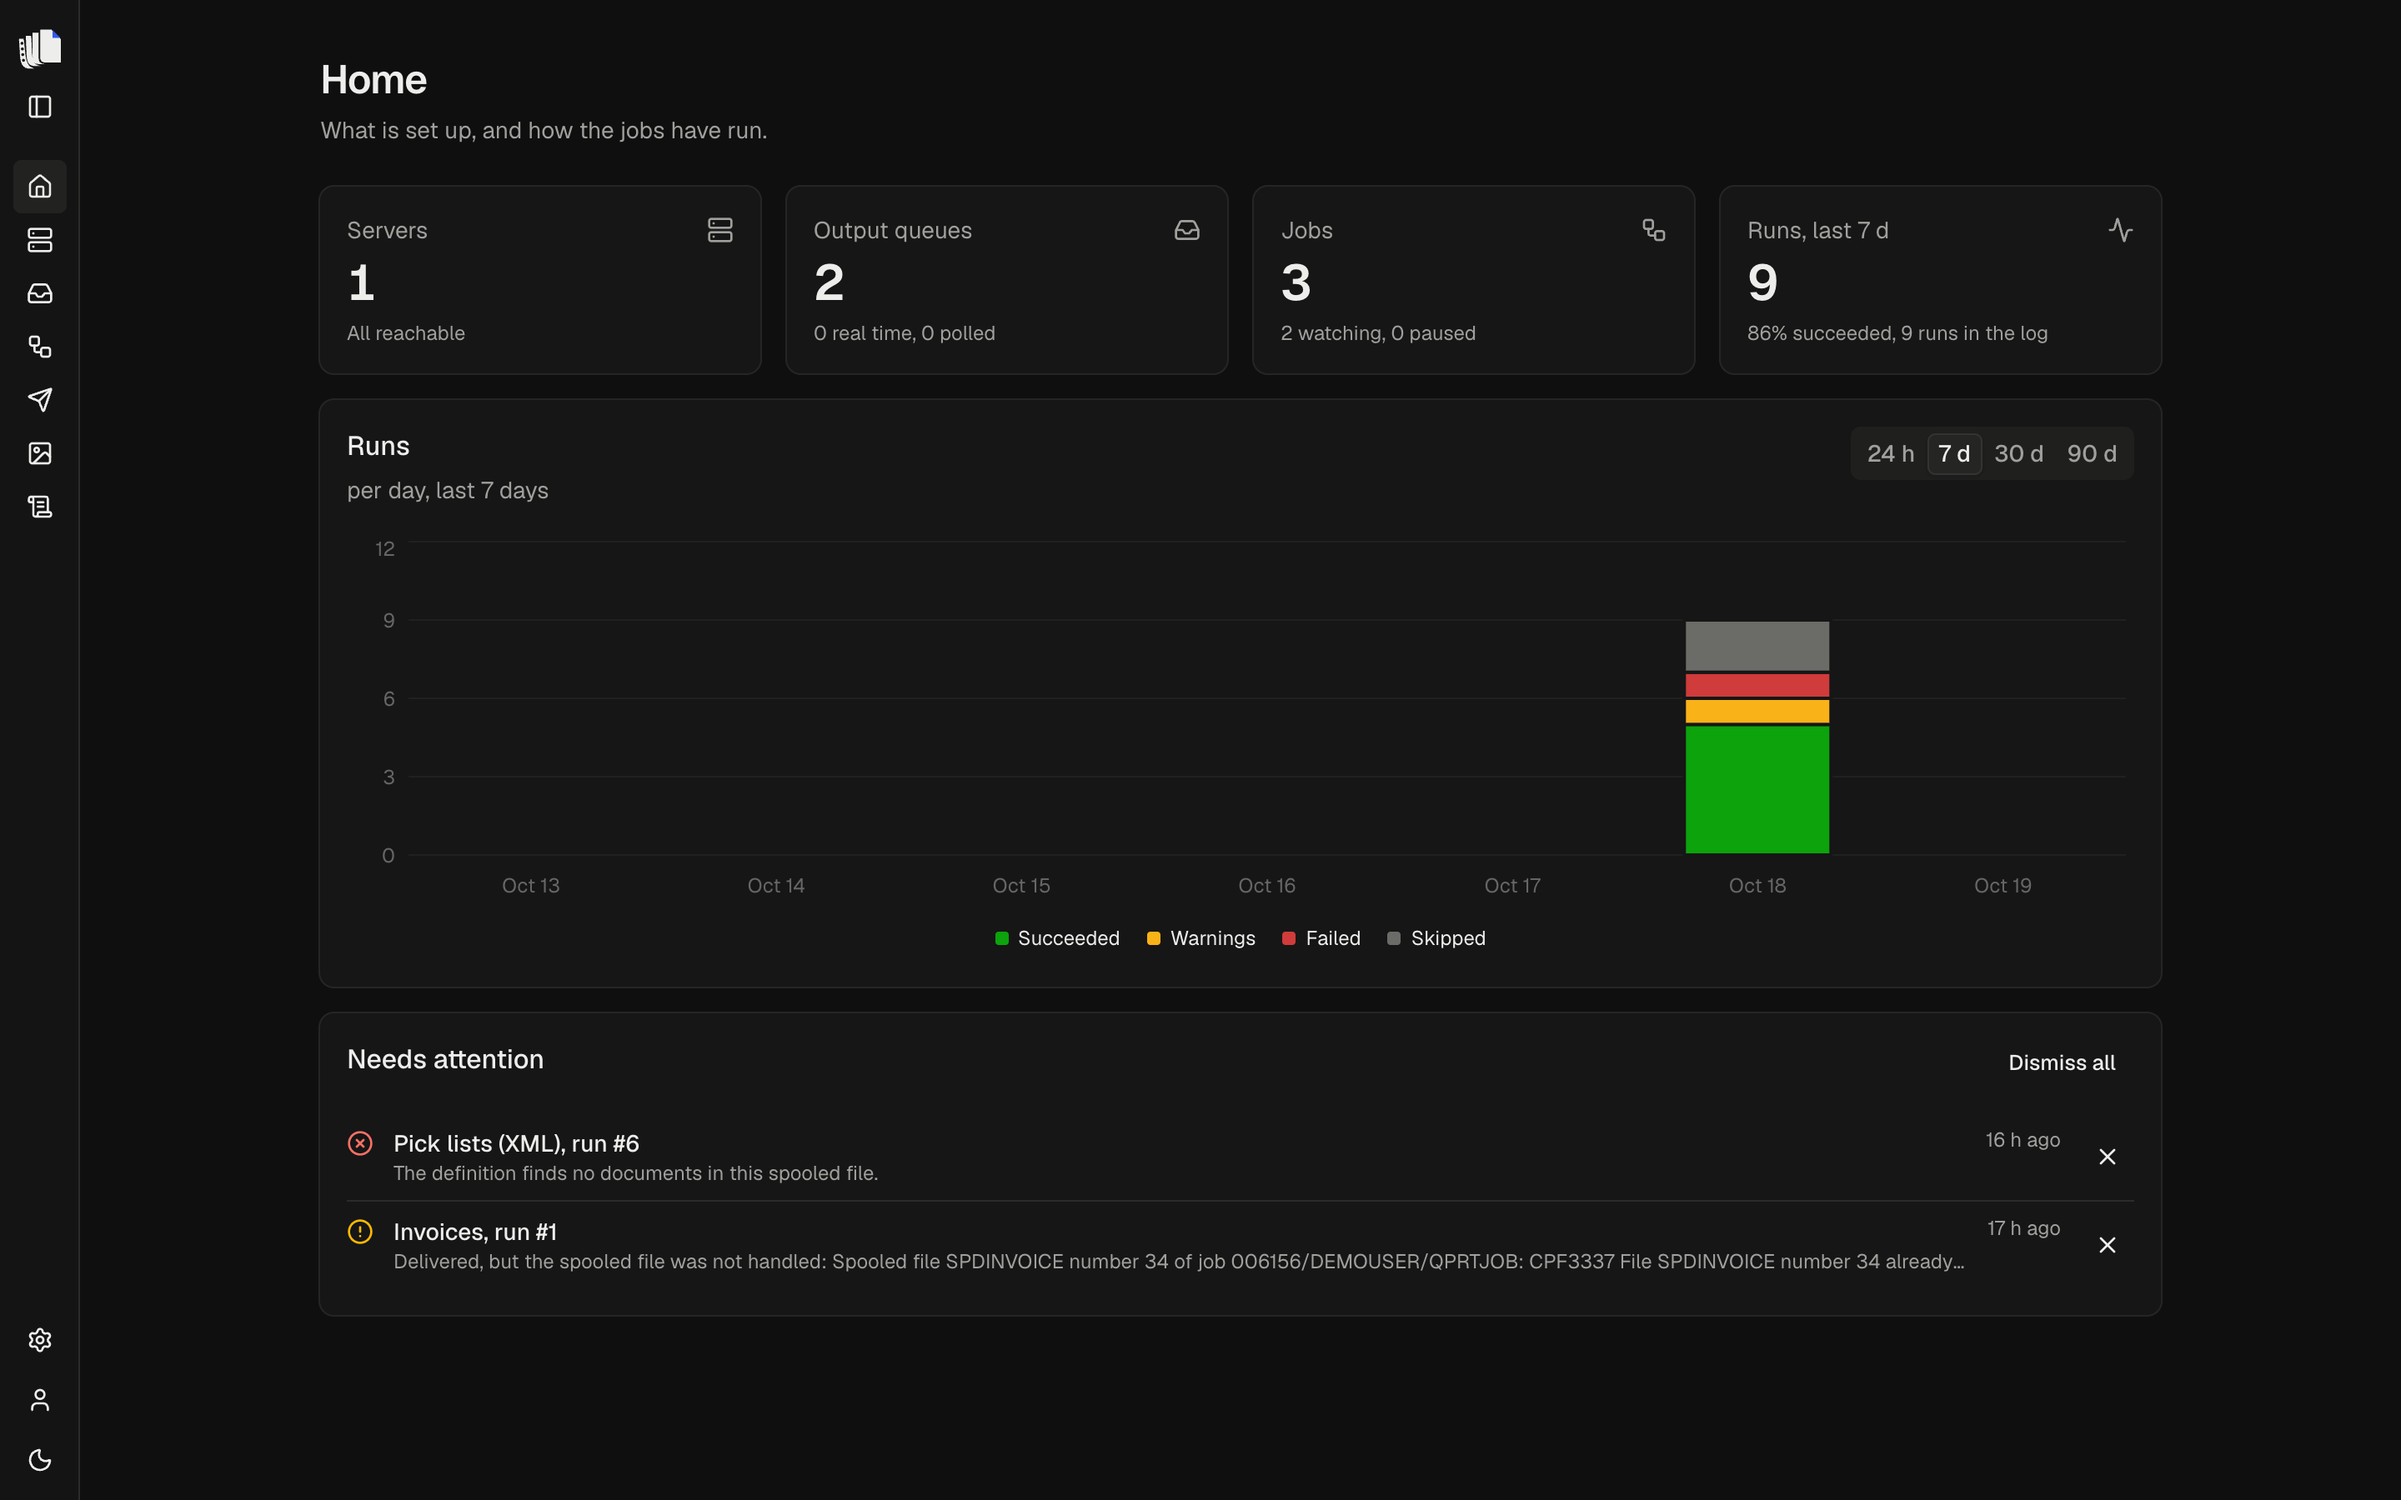
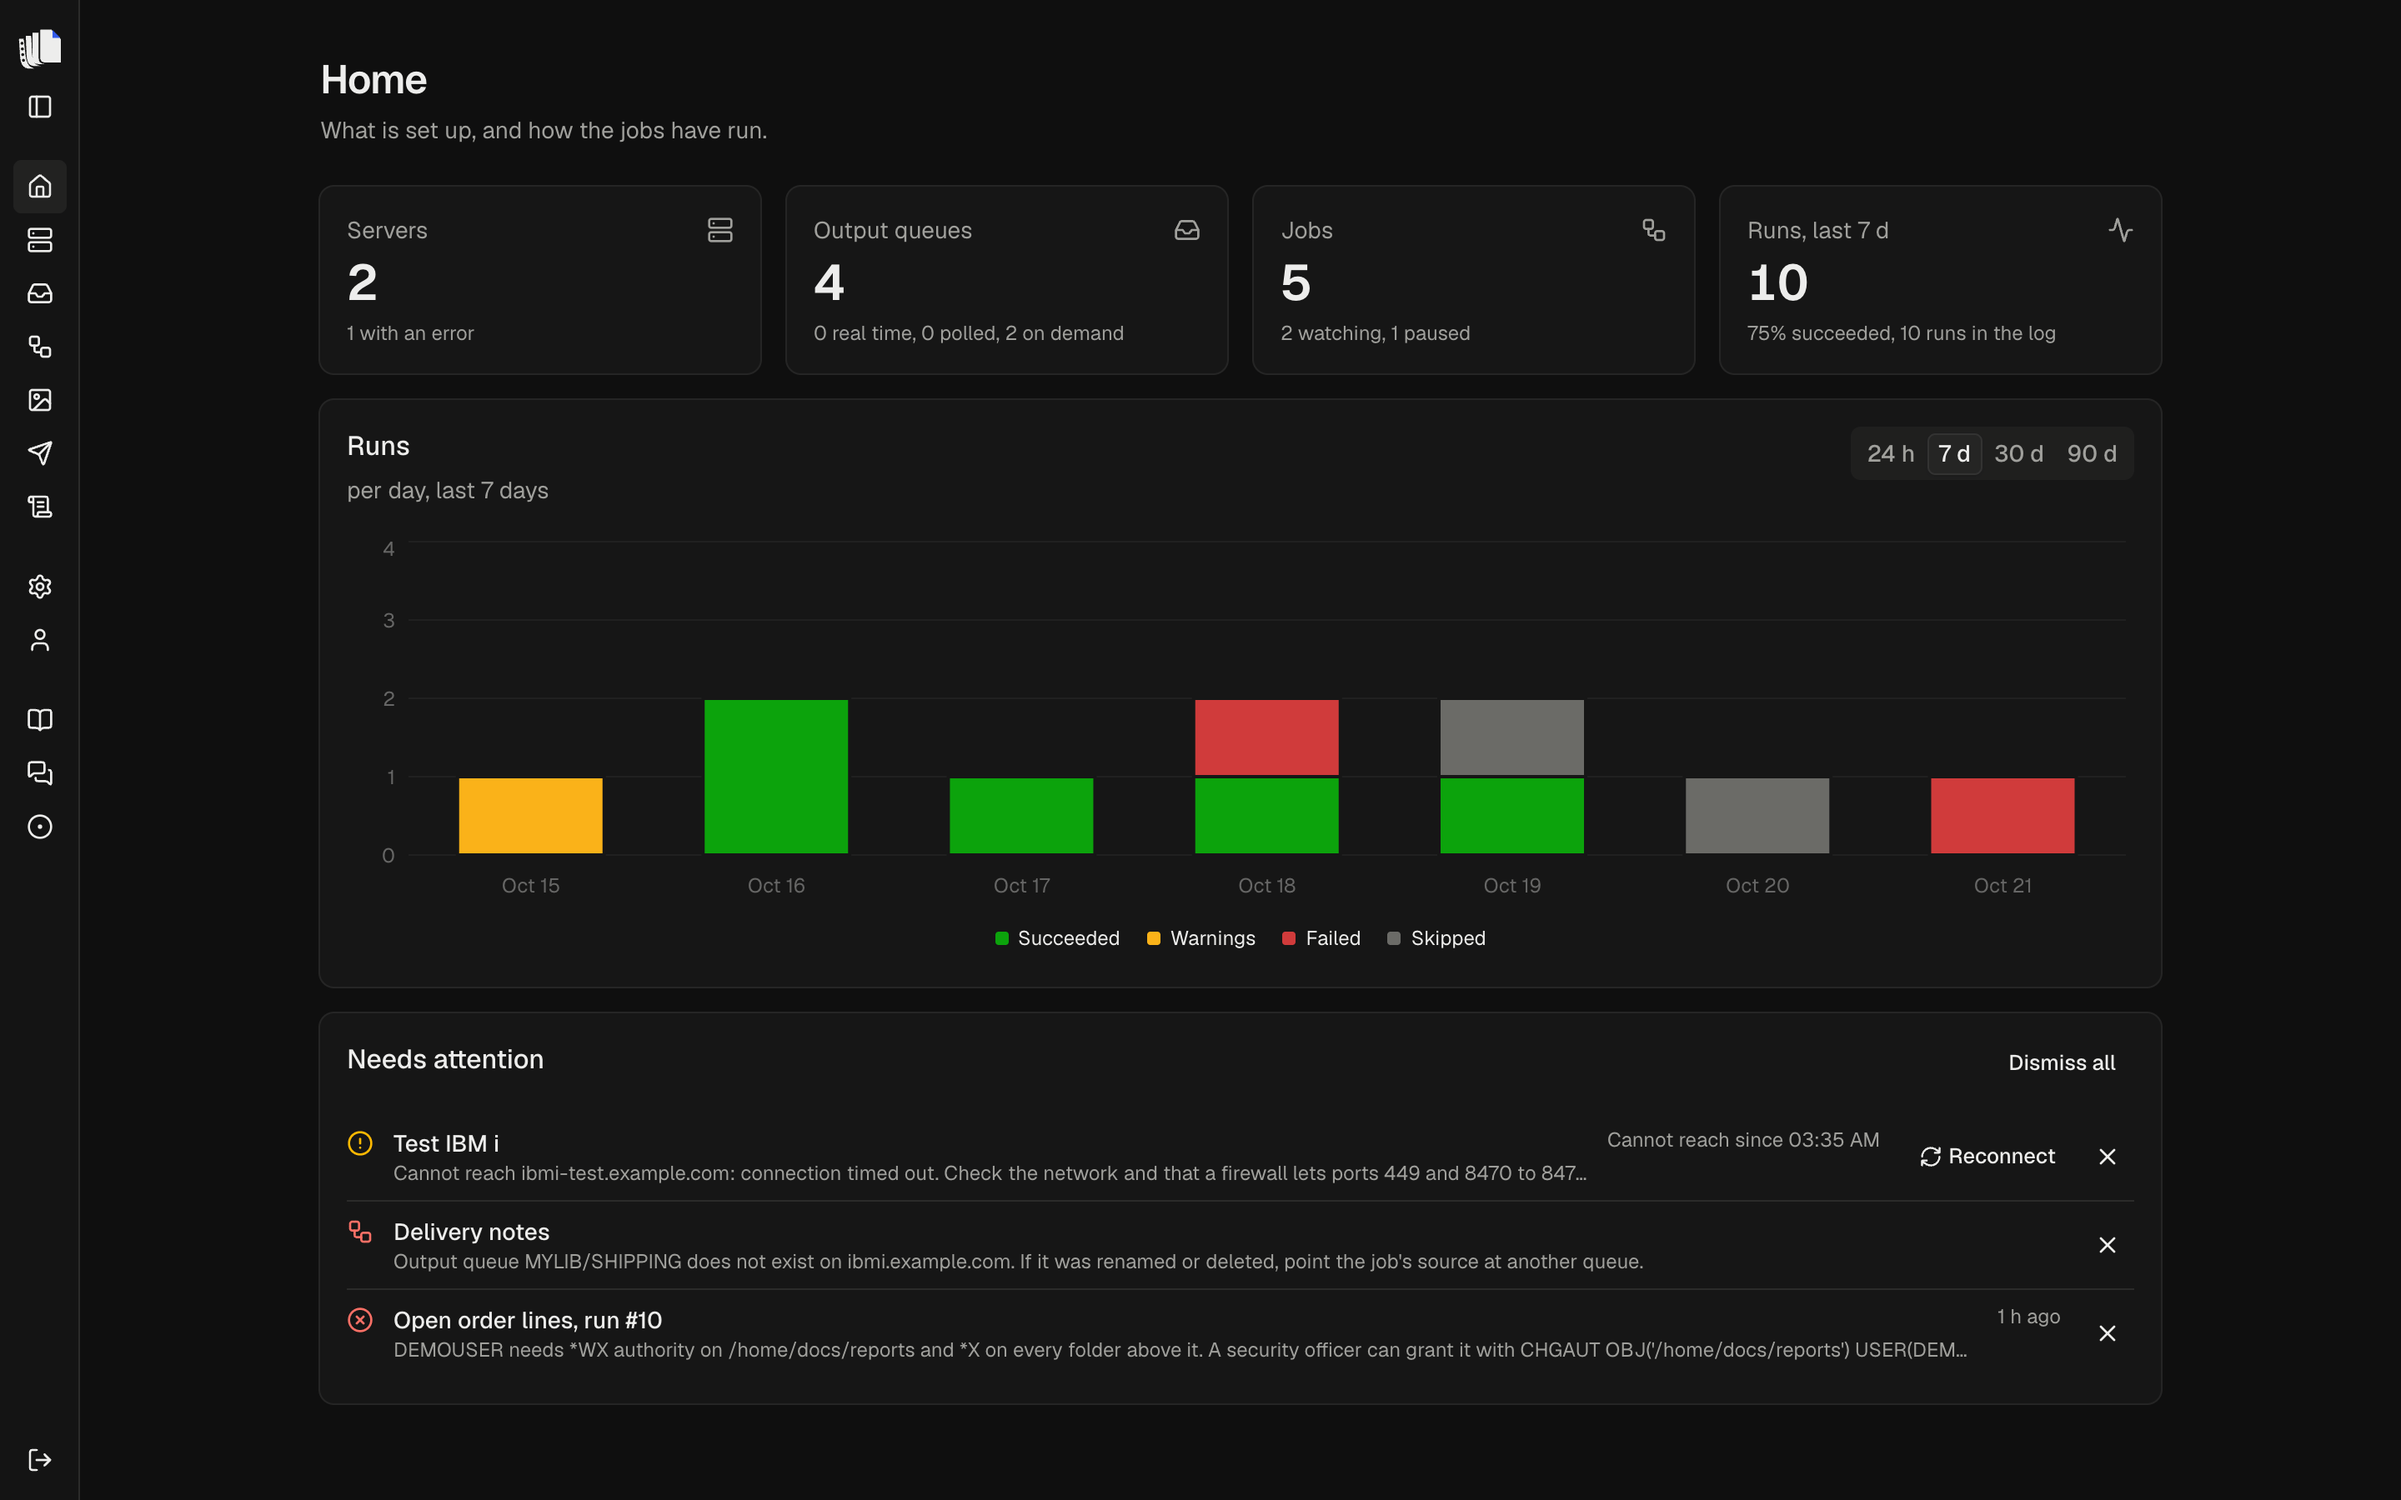
docs: screenshots of jobs, servers, destinations, templates, settings, assets and profile
Adds ten screenshots in light and dark, each on the page that describes its screen, and retakes Home, whose demo now has items under Needs attention. The demo data in them is invented.

diff --git a/docs/templates.md b/docs/templates.md
@@ -141,6 +141,13 @@ makes DOCX only, and so does a template that turns into one. Pick Make it
 a Word template in the template's menu on the render step, or ask the
 agent for one.
 
+<p align="center">
+  <picture>
+    <source media="(prefers-color-scheme: dark)" srcset="assets/word-template-dark.png">
+    <img src="assets/word-template-light.png" alt="The render step of a job with a Word template: the uploaded .docx and the tips for tags in Word on the left, and the PDF preview of the open order lines on the right" width="900">
+  </picture>
+</p>
+
 Until you upload one, the preview uses a Word starter template made from
 the definition, with the same layout as the HTML one and "Page 1 of 2" in
 the footer. To make your own:
@@ -224,6 +231,13 @@ formulas and page setup, and type the tags into its cells. It makes XLSX
 files, PDFs or both; a new Excel template makes XLSX only, and so does a
 template that turns into one. Pick Make it an Excel template in the
 template's menu on the render step, or ask the agent for one.
+
+<p align="center">
+  <picture>
+    <source media="(prefers-color-scheme: dark)" srcset="assets/excel-template-dark.png">
+    <img src="assets/excel-template-light.png" alt="The render step of a job with an Excel template of the whole spooled file: the uploaded .xlsx and the tips for tags in Excel on the left, and the PDF preview with a row per order line on the right" width="900">
+  </picture>
+</p>
 
 Until you upload one, the preview uses an Excel starter template made
 from the definition. To make your own:
@@ -402,6 +416,13 @@ render carries the asset as base64, so keep logos and fonts small. The
 Assets page shows which jobs print each asset, and an unknown name is a
 problem the check reports. The fonts the Carbone container has depend on
 its image; the `full-...-fonts` image in the Compose file has a wide set.
+
+<p align="center">
+  <picture>
+    <source media="(prefers-color-scheme: dark)" srcset="assets/assets-dark.png">
+    <img src="assets/assets-light.png" alt="The Assets page with a font, shown as a sample of its letters, and a logo, each with the code to print it and the jobs that use it" width="900">
+  </picture>
+</p>
 
 ## PDF layout
 

diff --git a/docs/destinations.md b/docs/destinations.md
@@ -7,6 +7,13 @@ A destination is where the files of a run go. Jobs pick one in the
 destination step. The Destinations page lists them with the jobs that use
 each, and adds, edits and deletes the ones you made.
 
+<p align="center">
+  <picture>
+    <source media="(prefers-color-scheme: dark)" srcset="assets/destinations-dark.png">
+    <img src="assets/destinations-light.png" alt="The Destinations page with two IFS folders, each with its folder and settings and the number of jobs that use it, and the built-in Spooldoc download" width="900">
+  </picture>
+</p>
+
 ## Spooldoc download
 
 The built-in destination keeps every file in Spooldoc's database. The
@@ -27,6 +34,13 @@ An IFS destination writes each file of a run to a folder in the IFS, where
 programs on the IBM i can pick it up. Add one with **Add destination** on
 the Destinations page. It has a name, a folder such as `/home/docs/out`,
 and two settings.
+
+<p align="center">
+  <picture>
+    <source media="(prefers-color-scheme: dark)" srcset="assets/destination-ifs-dark.png">
+    <img src="assets/destination-ifs-light.png" alt="The New IFS destination dialog filled in: a name, the folder /home/docs/delivery-notes, Add a number when a file with the same name exists, and Keep a copy in Spooldoc on" width="900">
+  </picture>
+</p>
 
 **The folder is on the job's server.** A destination holds a folder, not a
 server: each job writes to the folder on the IBM i it reads its spooled

diff --git a/docs/configuration.md b/docs/configuration.md
@@ -70,6 +70,13 @@ Under Settings, for the whole app:
 | Keep runs for | 90 days | How long runs are kept, 1 to 3650 days. See [Retention](job-log.md#retention). |
 | Agent | None | The provider, key, model and effort of the agent. See [Agent](agent.md#choosing-a-model). The section also shows the agent's [usage](agent.md#usage) this month and last month. |
 
+<p align="center">
+  <picture>
+    <source media="(prefers-color-scheme: dark)" srcset="assets/settings-dark.png">
+    <img src="assets/settings-light.png" alt="The Settings page: Rendering with Carbone connected, its URL and Spooldoc's public key, the Agent with its provider, model and effort, the usage this month and last month, and the other settings" width="900">
+  </picture>
+</p>
+
 ## Per server and per job
 
 The libraries a server lists queues from are on the server; see

diff --git a/docs/jobs.md b/docs/jobs.md
@@ -11,6 +11,14 @@ Click a job, or its name, to open it in the job builder. Each row has
 Job log, and a watching job has Pause or Resume too. The ⋯ menu at the
 end of the row has Pause or Resume, Job log, and Delete job, which asks
 first.
+
+<p align="center">
+  <picture>
+    <source media="(prefers-color-scheme: dark)" srcset="assets/jobs-dark.png">
+    <img src="assets/jobs-light.png" alt="The Jobs page with five jobs: two watching, one of them with a watch error, one paused, and two run on demand, each with its server, queue, version and last run" width="900">
+  </picture>
+</p>
+
 The job builder shows the pipeline as six steps, and each step opens an
 inspector. Click a step to open it, or use Next and Back to go through them
 in order. Next sits at the end of each form, and in the bar above the page

diff --git a/docs/job-log.md b/docs/job-log.md
@@ -56,6 +56,13 @@ kept. When the job has more than one template, the run's files are
 grouped by template. The log's Page groups column counts what the
 definition found.
 
+<p align="center">
+  <picture>
+    <source media="(prefers-color-scheme: dark)" srcset="assets/job-log-failed-dark.png">
+    <img src="assets/job-log-failed-light.png" alt="A failed run opened from the job log: the error says which authority the user profile needs on the folder and the command that grants it, Details holds the IBM i message, and the steps show that Deliver failed" width="900">
+  </picture>
+</p>
+
 ## Retry
 
 Retry runs the same spooled file again with the job's active version, as

diff --git a/docs/servers.md b/docs/servers.md
@@ -16,6 +16,13 @@ of the server. Hover over the count, or click, tap or press Enter on it, to
 list them, each with a link to the job and its state, as on the
 [Queues](queues.md) page.
 
+<p align="center">
+  <picture>
+    <source media="(prefers-color-scheme: dark)" srcset="assets/servers-dark.png">
+    <img src="assets/servers-light.png" alt="The Servers page with two servers: one connected, with its OS version and CCSID, and one that cannot be reached, with the reason and what to check" width="900">
+  </picture>
+</p>
+
 ## Adding a server
 
 | Field | What it is |

diff --git a/docs/profile.md b/docs/profile.md
@@ -6,6 +6,13 @@ description: "Your name, your password and the theme."
 Profile, in the sidebar under Settings, holds what belongs to you rather
 than to the whole app. Sign out is at the bottom of the sidebar.
 
+<p align="center">
+  <picture>
+    <source media="(prefers-color-scheme: dark)" srcset="assets/profile-dark.png">
+    <img src="assets/profile-light.png" alt="The Profile page: the name and email, the password change and the theme picker" width="900">
+  </picture>
+</p>
+
 ## Name
 
 The name is how you are shown in the app. Change it and select **Save**.
